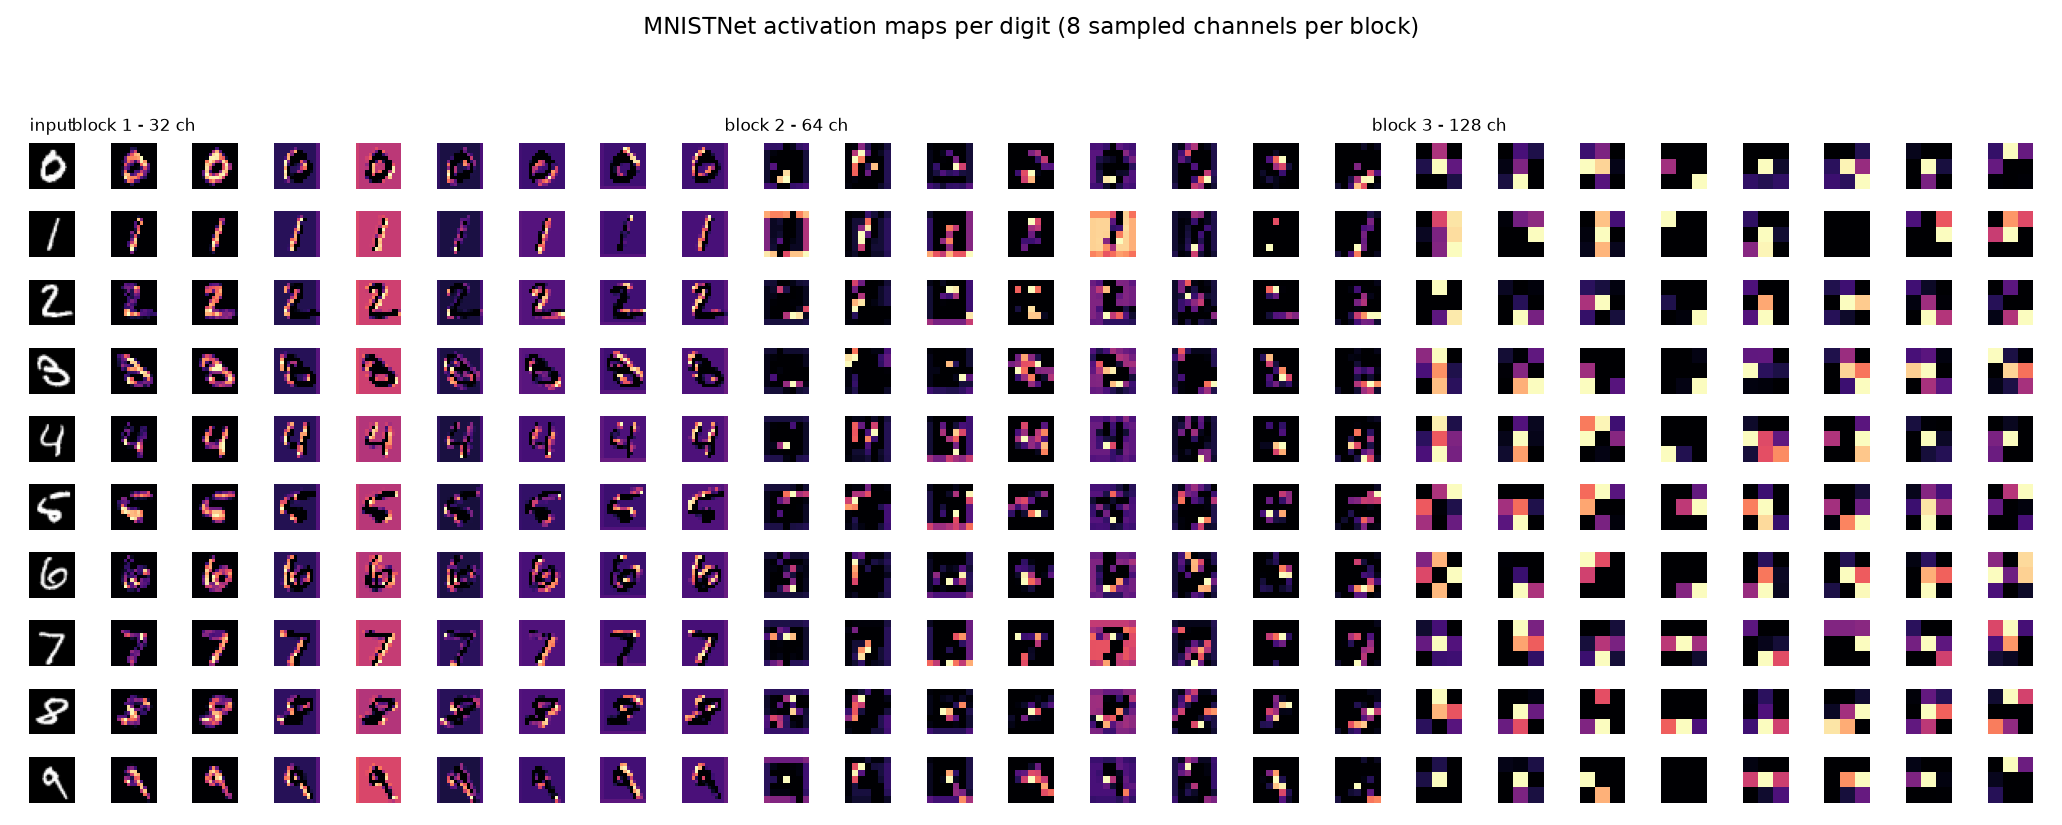
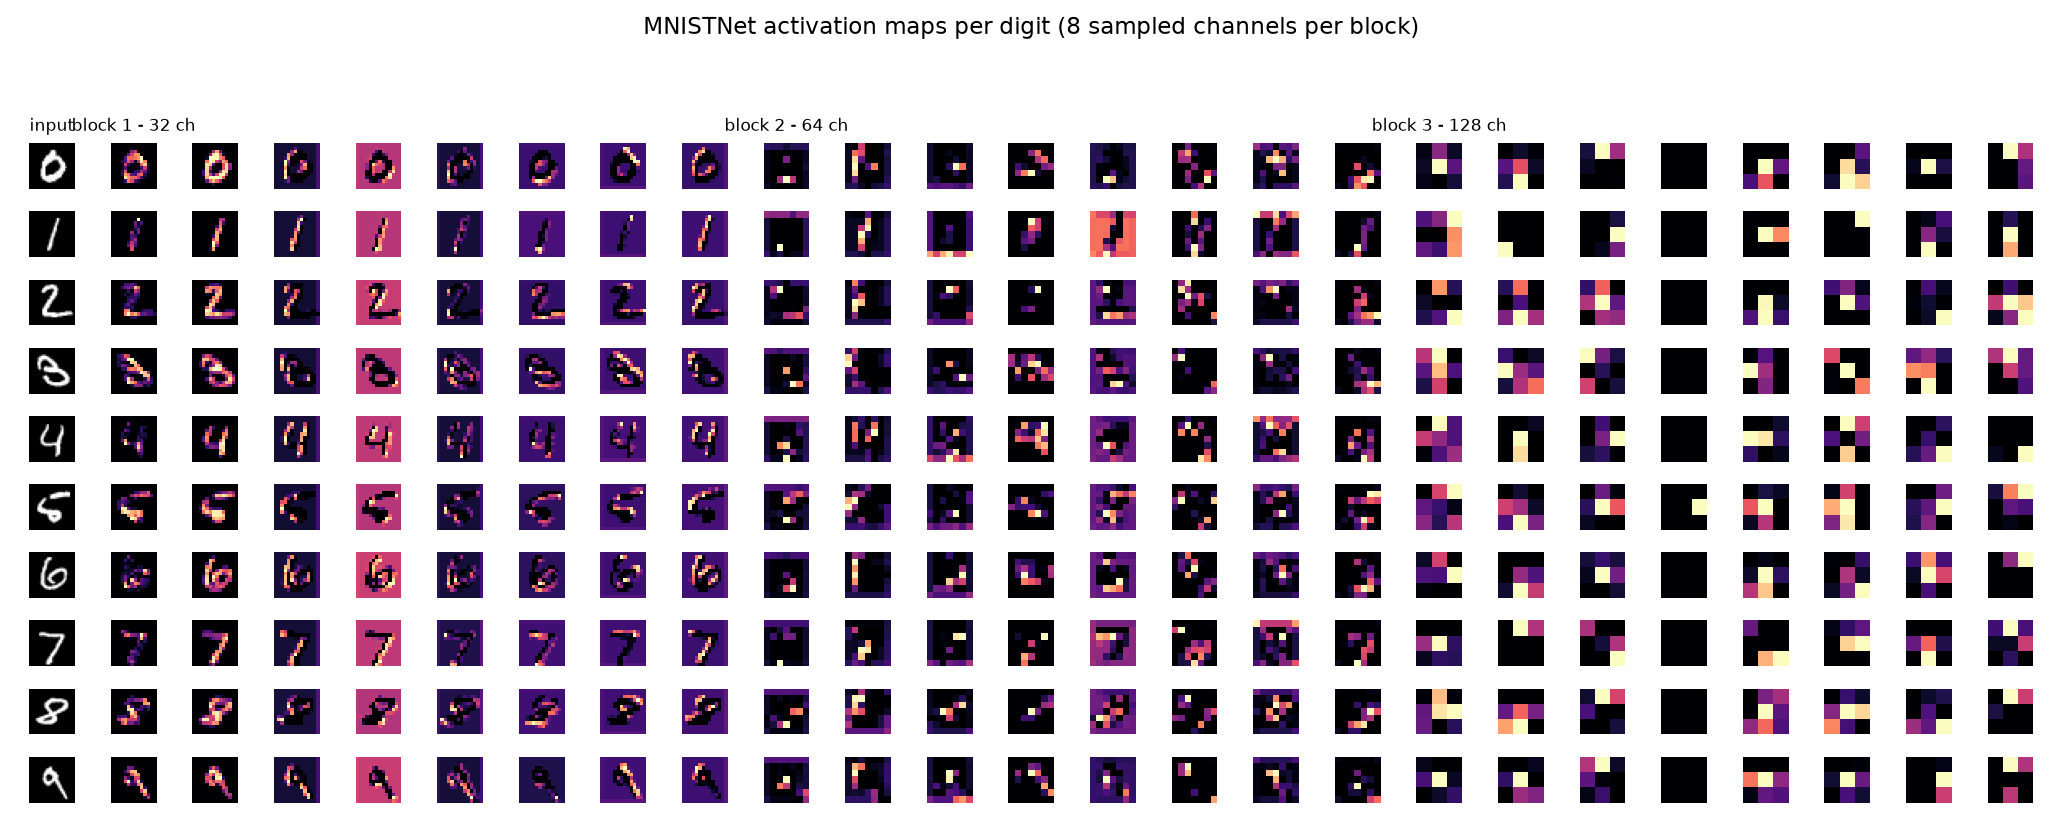
results: refresh outputs from full pipeline rerun (test 99.62%); README: update recorded result

diff --git a/README.md b/README.md
@@ -6,7 +6,7 @@ training, validation-based checkpointing, and test-set evaluation.
 **Built with Qwen 3.8 27B (running locally) and OpenCode**, on Ubuntu with a
 Ryzen 9 5950X and an RTX 3090.
 
-Current best result: **99.64% test accuracy** (best val_loss 0.0141 at epoch 27/30).
+Current best result: **99.62% test accuracy** (best val_loss 0.0136 at epoch 26/30).
 
 ## Project layout
 
@@ -113,7 +113,7 @@ Outputs written to `results/` (override per-run with `--out-dir`):
 
 - The model outputs `log_softmax`, so the loss is `nn.NLLLoss` (not `CrossEntropyLoss`).
 - `best_model.pt` is not bit-reproducible: augmentation RNG depends on per-run worker/
-  thread interleaving, so identical-config reruns land at test 99.63–99.64%.
+  thread interleaving, so identical-config reruns land at test 99.62–99.64%.
 - Full design history and rejected alternatives (e.g. `torch.compile` with no speedup,
   GPU-side augmentation with a quality cost, loader workers above 16 with no gain) are
   in `NOTES.md`.
